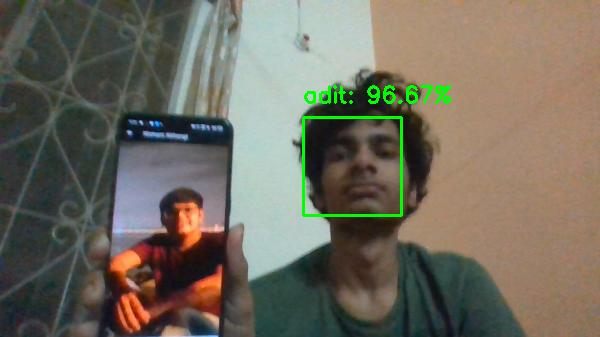
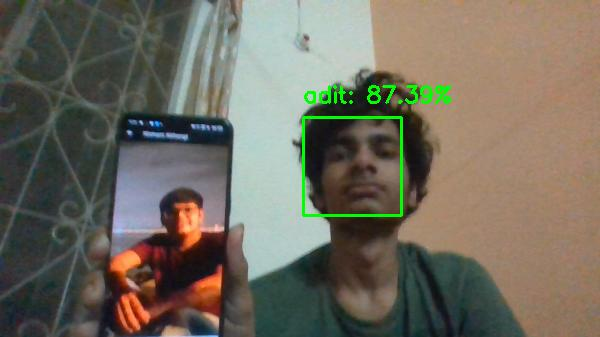
Changed fake rectangle to red

Changed region(s): [[0.6, 0.2374, 0.75, 0.3264]]

diff --git a/full pipeline/static_pytorch.py b/full pipeline/static_pytorch.py
@@ -116,7 +116,7 @@ for datum in data:
 
         # draw the label and bounding box on the frame
         if live_result[live_preds.item()] == 'fake':
-            name="Fake"
+            name="fake"
             proba=val.item()
             names.append(name)
             probs.append(proba)
@@ -138,11 +138,19 @@ for datum in data:
         left = int(left * r)
 
         # draw the predicted face name on the image
-        cv2.rectangle(frame, (left, top), (right, bottom),
-            (0, 255, 0), 2)
-        y = top - 15 if top - 15 > 15 else top + 15
-        cv2.putText(frame, "{}: {:.2f}%".format(name, proba*100), (left, y), cv2.FONT_HERSHEY_SIMPLEX,
-            0.75, (0, 255, 0), 2)
+        if name=="fake":
+            cv2.rectangle(frame, (left, top), (right, bottom),
+                (0, 0, 255), 2)
+            y = top - 15 if top - 15 > 15 else top + 15
+            cv2.putText(frame, "{}: {:.2f}%".format(name, proba*100), (left, y), cv2.FONT_HERSHEY_SIMPLEX,
+                0.75, (0, 0, 255), 2)
+    
+        else:
+            cv2.rectangle(frame, (left, top), (right, bottom),
+                (0, 255, 0), 2)
+            y = top - 15 if top - 15 > 15 else top + 15
+            cv2.putText(frame, "{}: {:.2f}%".format(name, proba*100), (left, y), cv2.FONT_HERSHEY_SIMPLEX,
+                0.75, (0, 255, 0), 2)
     
 
     # if the video writer is None *AND* we are supposed to write
